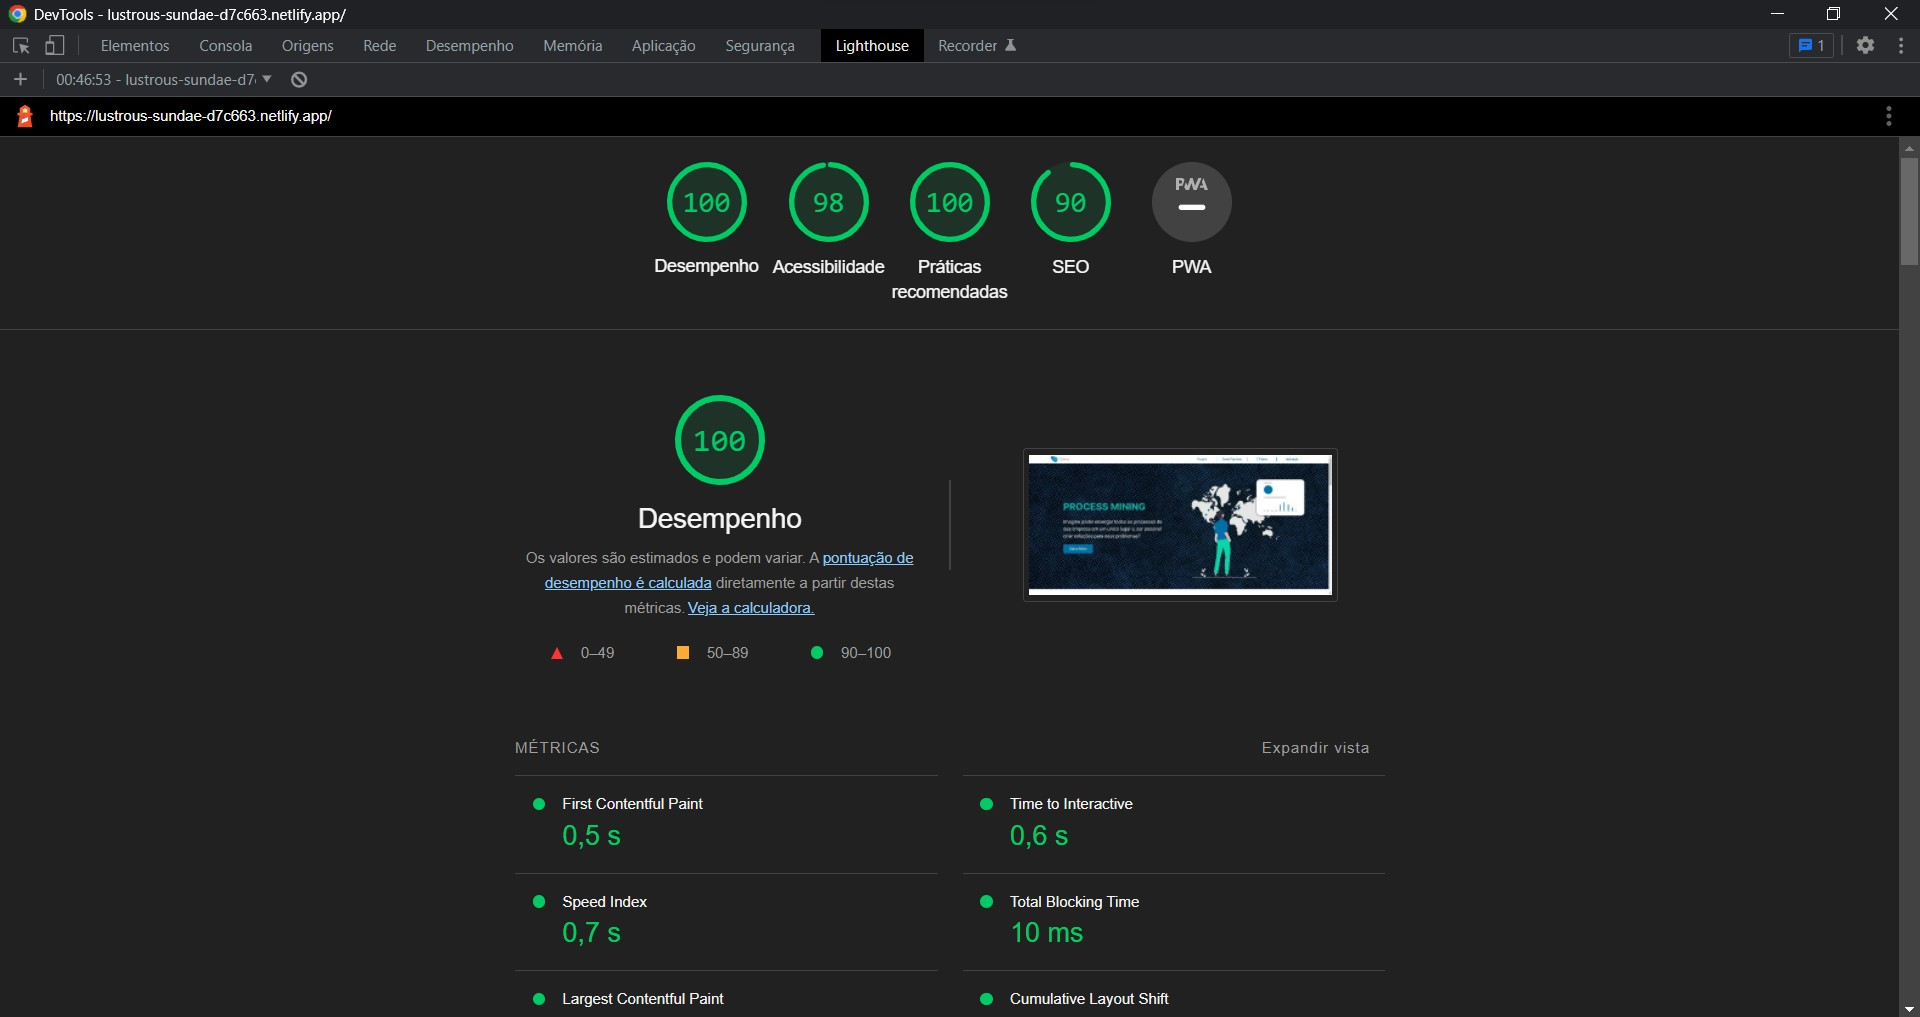
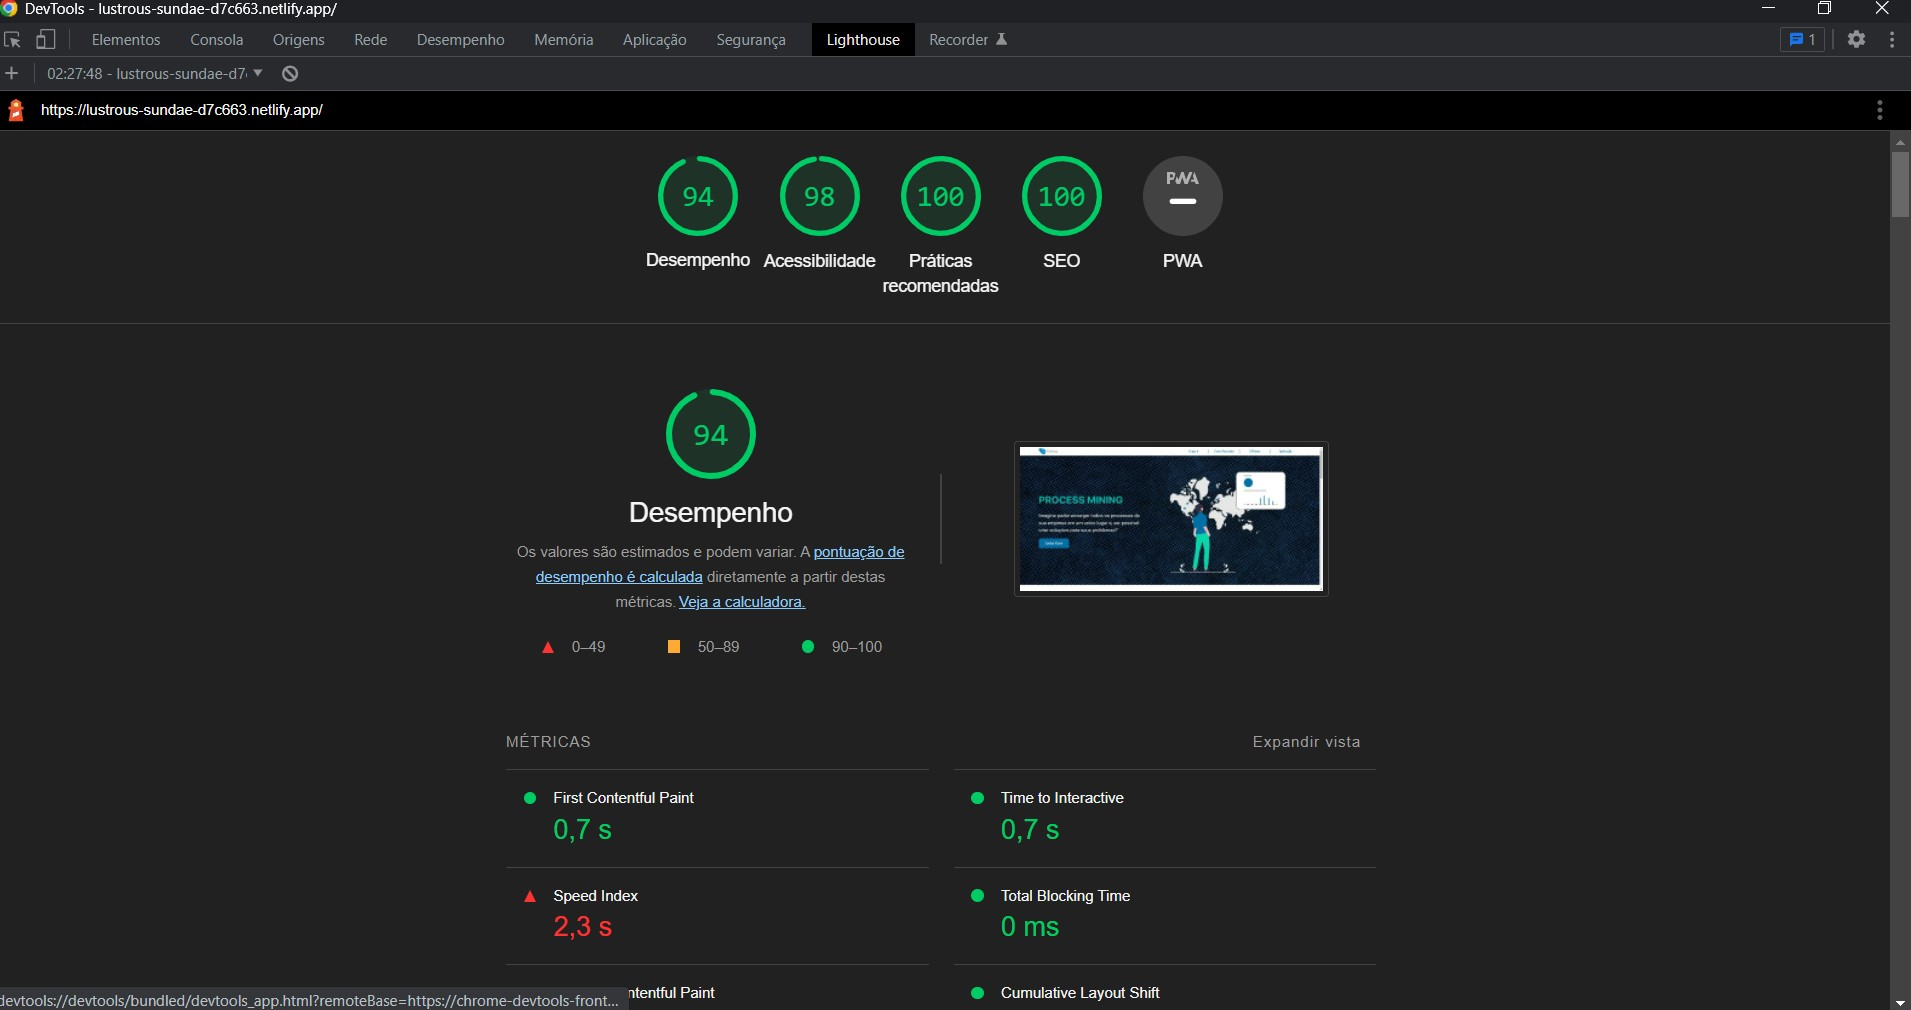
upload relatorios e atualizacao readme

diff --git a/Readme.md b/Readme.md
@@ -50,8 +50,14 @@ Realizar a criação de uma landing page com conteúdos explicativos sobre Proce
 
 ## Relatório Lighthouse
 
+### Desktop
 <p align="center">
    <img src="./img/relatorio.jpg"/>
+</p>
+
+### Mobile
+<p align="center">
+   <img src="./img/relatorio_mobile.jpg"/>
 </p>
 
 ## Ferramentas Utilizadas
